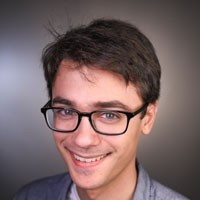
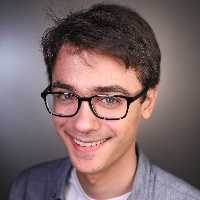
Increase resolution of headshot images

diff --git a/generate_people_html.rb b/generate_people_html.rb
@@ -12,7 +12,7 @@ def to_html(p)
   <<-HTML
 <a class="person__item" href="#{p['website_url']}" target="_blank">
   <div class="person__pic-wrapper">
-    <img class="person__pic" src="#{p['image_url'].split(".")[0]}_200x200.jpg">
+    <img class="person__pic" src="#{p['image_url'].split(".")[0]}_400x400.jpg">
   </div>
   <div class="person__name">#{p['name']}</div>
   <div class="person__affil">#{p['affiliation']}</div>

diff --git a/resize_images.py b/resize_images.py
@@ -1,9 +1,10 @@
 import cv2
 import glob
 
+sizes = [200, 400]
 for f in glob.glob("images/people/*"):
-    for q in [200]:
-        if "{}x{}".format(q,q) in f:
+    for q in [200, 400]:
+        if any("{}x{}".format(qq,qq) in f for qq in sizes):
             continue
         image = cv2.imread(f)
         h,w,d = image.shape

diff --git a/about.md b/about.md
@@ -31,7 +31,7 @@ To empower work that meaningfully addresses the climate crisis and is well-serve
 <div class="person__list">
 <a class="person__item" href="http://www.davidrolnick.com" target="_blank">
   <div class="person__pic-wrapper">
-    <img class="person__pic" src="images/people/davidrolnick_200x200.jpg">
+    <img class="person__pic" src="images/people/davidrolnick_400x400.jpg">
   </div>
   <div class="person__name">David Rolnick</div>
   <div class="person__affil">University of Pennsylvania</div>
@@ -40,7 +40,7 @@ To empower work that meaningfully addresses the climate crisis and is well-serve
 
 <a class="person__item" href="https://priyadonti.com/" target="_blank">
   <div class="person__pic-wrapper">
-    <img class="person__pic" src="images/people/priyadonti_200x200.jpg">
+    <img class="person__pic" src="images/people/priyadonti_400x400.jpg">
   </div>
   <div class="person__name">Priya L. Donti</div>
   <div class="person__affil">Carnegie Mellon</div>
@@ -49,7 +49,7 @@ To empower work that meaningfully addresses the climate crisis and is well-serve
 
 <a class="person__item" href="https://epg.ethz.ch/people/senior-researchers/dr--lynn-kaack.html" target="_blank">
   <div class="person__pic-wrapper">
-    <img class="person__pic" src="images/people/lynnkaack_200x200.jpg">
+    <img class="person__pic" src="images/people/lynnkaack_400x400.jpg">
   </div>
   <div class="person__name">Lynn H. Kaack</div>
   <div class="person__affil">ETH Zürich</div>
@@ -58,7 +58,7 @@ To empower work that meaningfully addresses the climate crisis and is well-serve
 
 <a class="person__item" href="https://mila.quebec/en/person/kris-sankaran/" target="_blank">
   <div class="person__pic-wrapper">
-    <img class="person__pic" src="images/people/krissankaran_200x200.jpg">
+    <img class="person__pic" src="images/people/krissankaran_400x400.jpg">
   </div>
   <div class="person__name">Kris Sankaran</div>
   <div class="person__affil">Mila, U. de Montréal</div>
@@ -67,7 +67,7 @@ To empower work that meaningfully addresses the climate crisis and is well-serve
 
 <a class="person__item" href="https://www.sashaluccioni.com/" target="_blank">
   <div class="person__pic-wrapper">
-    <img class="person__pic" src="images/people/sashaluccioni_200x200.jpg">
+    <img class="person__pic" src="images/people/sashaluccioni_400x400.jpg">
   </div>
   <div class="person__name">Sasha Luccioni</div>
   <div class="person__affil">Mila, U. de Montréal</div>
@@ -76,7 +76,7 @@ To empower work that meaningfully addresses the climate crisis and is well-serve
 
 <a class="person__item" href="https://asross.github.io/" target="_blank">
   <div class="person__pic-wrapper">
-    <img class="person__pic" src="images/people/andrew_ross_200x200.jpg">
+    <img class="person__pic" src="images/people/andrew_ross_400x400.jpg">
   </div>
   <div class="person__name">Andrew Slavin Ross</div>
   <div class="person__affil">Harvard University</div>
@@ -85,7 +85,7 @@ To empower work that meaningfully addresses the climate crisis and is well-serve
 
 <a class="person__item" href="http://www.kochanski.org/kelly/" target="_blank">
   <div class="person__pic-wrapper">
-    <img class="person__pic" src="images/people/kellykochanski_200x200.jpg">
+    <img class="person__pic" src="images/people/kellykochanski_400x400.jpg">
   </div>
   <div class="person__name">Kelly Kochanski</div>
   <div class="person__affil">CU Boulder</div>
@@ -94,7 +94,7 @@ To empower work that meaningfully addresses the climate crisis and is well-serve
 
 <a class="person__item" href="https://scholar.google.com/citations?user=71a2-WMAAAAJ&hl=en" target="_blank">
   <div class="person__pic-wrapper">
-    <img class="person__pic" src="images/people/Alexandre_Lacoste_200x200.jpg">
+    <img class="person__pic" src="images/people/Alexandre_Lacoste_400x400.jpg">
   </div>
   <div class="person__name">Alexandre Lacoste</div>
   <div class="person__affil">Element AI</div>
@@ -103,7 +103,7 @@ To empower work that meaningfully addresses the climate crisis and is well-serve
 
 <a class="person__item" href="https://www.mcc-berlin.net/en/about/team/milojevic-dupont-nikola.html" target="_blank">
   <div class="person__pic-wrapper">
-    <img class="person__pic" src="images/people/nikolamilojevicdupont_200x200.jpg">
+    <img class="person__pic" src="images/people/nikolamilojevicdupont_400x400.jpg">
   </div>
   <div class="person__name">Nikola Milojevic-Dupont</div>
   <div class="person__affil">MCC Berlin, TU Berlin</div>
@@ -112,7 +112,7 @@ To empower work that meaningfully addresses the climate crisis and is well-serve
 
 <a class="person__item" href="https://www.media.mit.edu/people/jaquesn/overview/" target="_blank">
   <div class="person__pic-wrapper">
-    <img class="person__pic" src="images/people/natashajaques_200x200.jpg">
+    <img class="person__pic" src="images/people/natashajaques_400x400.jpg">
   </div>
   <div class="person__name">Natasha Jaques</div>
   <div class="person__affil">MIT</div>
@@ -121,7 +121,7 @@ To empower work that meaningfully addresses the climate crisis and is well-serve
 
 <a class="person__item" href="http://www.teganmaharaj.com" target="_blank">
   <div class="person__pic-wrapper">
-    <img class="person__pic" src="images/people/teganmaharaj_200x200.jpg">
+    <img class="person__pic" src="images/people/teganmaharaj_400x400.jpg">
   </div>
   <div class="person__name">Tegan Maharaj</div>
   <div class="person__affil">Mila, Polytechnique Montréal</div>
@@ -130,7 +130,7 @@ To empower work that meaningfully addresses the climate crisis and is well-serve
 
 <a class="person__item" href="https://www.evansherwin.com/" target="_blank">
   <div class="person__pic-wrapper">
-    <img class="person__pic" src="images/people/evansherwin_200x200.jpg">
+    <img class="person__pic" src="images/people/evansherwin_400x400.jpg">
   </div>
   <div class="person__name">Evan D. Sherwin</div>
   <div class="person__affil">Stanford University</div>
@@ -139,7 +139,7 @@ To empower work that meaningfully addresses the climate crisis and is well-serve
 
 <a class="person__item" href="http://sharonzhou.me/" target="_blank">
   <div class="person__pic-wrapper">
-    <img class="person__pic" src="images/people/sharonzhou_200x200.jpg">
+    <img class="person__pic" src="images/people/sharonzhou_400x400.jpg">
   </div>
   <div class="person__name">Sharon Zhou</div>
   <div class="person__affil">Stanford University</div>
@@ -148,7 +148,7 @@ To empower work that meaningfully addresses the climate crisis and is well-serve
 
 <a class="person__item" href="https://daviddao.org/" target="_blank">
   <div class="person__pic-wrapper">
-    <img class="person__pic" src="images/people/daviddao_200x200.jpg">
+    <img class="person__pic" src="images/people/daviddao_400x400.jpg">
   </div>
   <div class="person__name">David Dao</div>
   <div class="person__affil">ETH Zurich</div>
@@ -159,7 +159,7 @@ To empower work that meaningfully addresses the climate crisis and is well-serve
 <div class="person__list">
 <a class="person__item" href="https://mila.quebec/en/yoshua-bengio/" target="_blank">
   <div class="person__pic-wrapper">
-    <img class="person__pic" src="images/people/yb_200x200.jpg">
+    <img class="person__pic" src="images/people/yb_400x400.jpg">
   </div>
   <div class="person__name">Yoshua Bengio</div>
   <div class="person__affil">Mila, U. de Montréal</div>
@@ -168,7 +168,7 @@ To empower work that meaningfully addresses the climate crisis and is well-serve
 
 <a class="person__item" href="https://data.berkeley.edu/jennifer-chayes" target="_blank">
   <div class="person__pic-wrapper">
-    <img class="person__pic" src="images/people/jenniferchayes_200x200.jpg">
+    <img class="person__pic" src="images/people/jenniferchayes_400x400.jpg">
   </div>
   <div class="person__name">Jennifer Chayes</div>
   <div class="person__affil">UC Berkeley</div>
@@ -177,7 +177,7 @@ To empower work that meaningfully addresses the climate crisis and is well-serve
 
 <a class="person__item" href="https://www.mcc-berlin.net/en/about/team/creutzig-felix.html" target="_blank">
   <div class="person__pic-wrapper">
-    <img class="person__pic" src="images/people/felixcreuzig_200x200.jpg">
+    <img class="person__pic" src="images/people/felixcreuzig_400x400.jpg">
   </div>
   <div class="person__name">Felix Creutzig</div>
   <div class="person__affil">MCC Berlin, TU Berlin</div>
@@ -186,7 +186,7 @@ To empower work that meaningfully addresses the climate crisis and is well-serve
 
 <a class="person__item" href="https://ai.google/research/people/JohnPlatt" target="_blank">
   <div class="person__pic-wrapper">
-    <img class="person__pic" src="images/people/johnplatt_200x200.jpg">
+    <img class="person__pic" src="images/people/johnplatt_400x400.jpg">
   </div>
   <div class="person__name">John C. Platt</div>
   <div class="person__affil">Google AI</div>
@@ -195,7 +195,7 @@ To empower work that meaningfully addresses the climate crisis and is well-serve
 
 <a class="person__item" href="https://deepmind.com/" target="_blank">
   <div class="person__pic-wrapper">
-    <img class="person__pic" src="images/people/Demis_Hassabis_200x200.jpg">
+    <img class="person__pic" src="images/people/Demis_Hassabis_400x400.jpg">
   </div>
   <div class="person__name">Demis Hassabis</div>
   <div class="person__affil">DeepMind</div>
@@ -204,7 +204,7 @@ To empower work that meaningfully addresses the climate crisis and is well-serve
 
 <a class="person__item" href="https://www.andrewng.org/" target="_blank">
   <div class="person__pic-wrapper">
-    <img class="person__pic" src="images/people/andrewng_200x200.jpg">
+    <img class="person__pic" src="images/people/andrewng_400x400.jpg">
   </div>
   <div class="person__name">Andrew Y. Ng</div>
   <div class="person__affil">Stanford University</div>
@@ -213,7 +213,7 @@ To empower work that meaningfully addresses the climate crisis and is well-serve
 
 <a class="person__item" href="https://www.cs.cornell.edu/gomes/" target="_blank">
   <div class="person__pic-wrapper">
-    <img class="person__pic" src="images/people/carlagomes_200x200.jpg">
+    <img class="person__pic" src="images/people/carlagomes_400x400.jpg">
   </div>
   <div class="person__name">Carla Gomes</div>
   <div class="person__affil">Cornell University</div>
@@ -222,7 +222,7 @@ To empower work that meaningfully addresses the climate crisis and is well-serve
 
 <a class="person__item" href="http://koerding.com/" target="_blank">
   <div class="person__pic-wrapper">
-    <img class="person__pic" src="images/people/konradkording_200x200.jpg">
+    <img class="person__pic" src="images/people/konradkording_400x400.jpg">
   </div>
   <div class="person__name">Konrad P. Körding</div>
   <div class="person__affil">University of Pennsylvania</div>
@@ -231,7 +231,7 @@ To empower work that meaningfully addresses the climate crisis and is well-serve
 
 <a class="person__item" href="http://zicokolter.com/" target="_blank">
   <div class="person__pic-wrapper">
-    <img class="person__pic" src="images/people/zicokolter_200x200.jpg">
+    <img class="person__pic" src="images/people/zicokolter_400x400.jpg">
   </div>
   <div class="person__name">Zico Kolter</div>
   <div class="person__affil">Carnegie Mellon</div>
@@ -240,7 +240,7 @@ To empower work that meaningfully addresses the climate crisis and is well-serve
 
 <a class="person__item" href="https://ines.stanford.edu" target="_blank">
   <div class="person__pic-wrapper">
-    <img class="person__pic" src="images/people/inesazevedo_200x200.jpg">
+    <img class="person__pic" src="images/people/inesazevedo_400x400.jpg">
   </div>
   <div class="person__name">Inês Azevedo</div>
   <div class="person__affil">Stanford University</div>
@@ -249,7 +249,7 @@ To empower work that meaningfully addresses the climate crisis and is well-serve
 
 <a class="person__item" href="https://epg.ethz.ch/people/group-head/prof--dr--tobias-schmidt.html" target="_blank">
   <div class="person__pic-wrapper">
-    <img class="person__pic" src="images/people/tobiasschmidt_200x200.jpg">
+    <img class="person__pic" src="images/people/tobiasschmidt_400x400.jpg">
   </div>
   <div class="person__name">Tobias Schmidt</div>
   <div class="person__affil">ETH Zürich</div>
@@ -258,7 +258,7 @@ To empower work that meaningfully addresses the climate crisis and is well-serve
 
 <a class="person__item" href="https://www.eye-on.ai" target="_blank">
   <div class="person__pic-wrapper">
-    <img class="person__pic" src="images/people/craigsmith_200x200.jpg">
+    <img class="person__pic" src="images/people/craigsmith_400x400.jpg">
   </div>
   <div class="person__name">Craig Smith</div>
   <div class="person__affil">Eye on AI</div>
